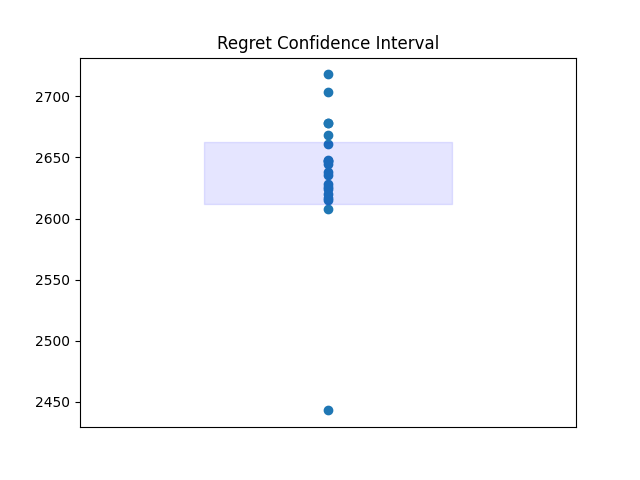
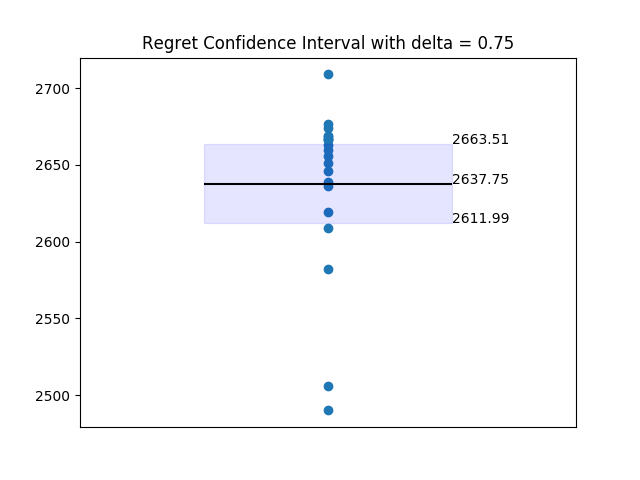
completed linreg bandit

diff --git a/q3-20.py b/q3-20.py
@@ -3,16 +3,15 @@ import pandas as pd
 from matplotlib import pyplot as plt
 
 from load_data import Load_Data
-from suplinrel import SupLinRel
-from utils import dose_to_category, mean_confidence_interval
+from linreg_bandit import LinReg_Bandit
+from utils import mean_confidence_interval
 
-delta = 0.75
+alpha = 1
 num_run = 20
 
 X, y = Load_Data().extract()
-y = dose_to_category(y)
+threshold = np.array([21, 49])
 
-K = 3
 reward = np.array([[0, -1, -1], \
                     [-1, 0, -1], \
                     [-1, -1, 0]])
@@ -22,11 +21,11 @@ accuracy_scores = np.zeros(num_run)
 
 for i in range(num_run):
     print("Processing Trial # %d out of %d." % (i+1, num_run))
-    SLR = SupLinRel(K, reward, delta=delta)
-    SLR.data_load(X, y)
-    SLR.run()
-    regrets[i] = SLR.total_regret()
-    accuracy_scores[i] = SLR.accuracy_score()
+    linreg = LinReg_Bandit(threshold, reward, alpha=alpha)
+    linreg.data_load(X, y)
+    linreg.run(initial_guess=35)
+    regrets[i] = linreg.total_regret()
+    accuracy_scores[i] = linreg.accuracy_score()
 
 regrets_mean, regrets_width = mean_confidence_interval(regrets)
 acc_mean, acc_width = mean_confidence_interval(accuracy_scores)
@@ -41,8 +40,8 @@ plt.text(0.1, regrets_mean, np.round(regrets_mean, 2))
 plt.text(0.1, regrets_mean+regrets_width, np.round(regrets_mean+regrets_width, 2))
 
 plt.tick_params(axis='x', which='both', bottom=False, top=False, labelbottom=False)
-plt.title("Regret Confidence Interval with delta = "+str(delta))
-plt.savefig("output/SupLinRel_Regret_confidence_interval")
+plt.title("Regret Confidence Interval with alpha = "+str(alpha))
+plt.savefig("output/linreg_Regret_confidence_interval")
 plt.clf()
 
 plt.scatter(np.zeros_like(accuracy_scores), accuracy_scores)
@@ -55,6 +54,6 @@ plt.text(0.1, acc_mean, np.round(acc_mean, 5))
 plt.text(0.1, acc_mean+acc_width,  np.round(acc_mean+acc_width, 5))
 
 plt.tick_params(axis='x', which='both', bottom=False, top=False, labelbottom=False)
-plt.title("Accuracy Confidence Interval with delta = "+str(delta))
-plt.savefig("output/SupLinRel_Accuracy_confidence_interval")
+plt.title("Accuracy Confidence Interval with alpha = "+str(alpha))
+plt.savefig("output/linreg_Accuracy_confidence_interval")
 plt.clf()

diff --git a/linreg_bandit.py b/linreg_bandit.py
@@ -1,0 +1,59 @@
+import numpy as np
+from sklearn.linear_model import Ridge
+from sklearn.preprocessing import StandardScaler
+import matplotlib.pyplot as plt
+
+from bandit import Bandit
+
+class LinReg_Bandit(Bandit):
+
+    def __init__(self, threshold, reward, alpha=1.0):
+
+        """
+        Requires: reward has shape (len(threshold)+1, len(threshold)+1)
+        """
+
+        self.alpha = alpha
+        self.r = reward
+        self.threshold = threshold
+        self.model_name = "LinReg"
+
+    def data_load(self, X, y, shuffle=True):
+
+        self.X = X.values
+        self.y = y.values
+
+        self.T = X.shape[0]
+        self.d = X.shape[1]
+
+        if shuffle:
+            indexes = np.random.permutation(self.T)
+            self.X = self.X[indexes, :]
+            self.y = self.y[indexes]
+
+        scaler = StandardScaler()
+        self.X = scaler.fit_transform(self.X)
+
+    def run(self, initial_guess=0):
+
+        self.accurate_so_far = np.zeros(self.T)
+        self.regret_history = np.zeros(self.T)
+
+        correct_labels = 0
+        regret = 0
+
+        for i in range(self.T):
+            if i < self.d:
+                y_pred = initial_guess
+            else:
+                model = Ridge(alpha=self.alpha)
+                model.fit(self.X[0:i, :], self.y[0:i])
+                y_pred = model.predict(self.X[i, :].reshape(1, -1))[0]
+                y_pred_choice = np.sum(y_pred >= self.threshold)
+                y_correct_choice = np.sum(self.y[i] >= self.threshold)
+
+                correct_labels += y_pred_choice == y_correct_choice
+                regret += np.max(self.r[y_correct_choice, :]) - self.r[y_correct_choice, y_pred_choice]
+
+                self.accurate_so_far[i] = correct_labels
+                self.regret_history[i] = regret

diff --git a/q3.py b/q3.py
@@ -1,0 +1,25 @@
+import numpy as np
+import pandas as pd
+
+from load_data import Load_Data
+from linreg_bandit import LinReg_Bandit
+
+alpha = 1.0
+
+X, y = Load_Data().extract()
+
+threshold = np.array([21, 49])
+
+reward = np.array([[0, -1, -1], \
+                    [-1, 0, -1], \
+                    [-1, -1, 0]])
+
+linreg = LinReg_Bandit(threshold, reward, alpha=alpha)
+linreg.data_load(X, y)
+linreg.run(initial_guess=35)
+
+print("The regret is %f." % linreg.total_regret())
+print("The accuracy score is %f." % (linreg.accuracy_score()))
+
+linreg.plot_hist()
+linreg.plot_recent_accuracy(N=500)

diff --git a/bandit.py b/bandit.py
@@ -3,6 +3,8 @@ import matplotlib.pyplot as plt
 
 class Bandit:
 
+    model_name = ""
+
     def data_load(self, X, y, shuffle=True):
         pass
 
@@ -26,7 +28,7 @@ class Bandit:
         plt.savefig("output/"+self.model_name+"_Accuracy_history")
         plt.clf()
 
-    def plot_recent_accuracy(self, N=1000):
+    def plot_recent_accuracy(self, N=500):
         recent_acc = np.zeros(self.T-N+1)
         recent_acc[0] = self.accurate_so_far[N-1]
         recent_acc[1:self.T-N+1] = self.accurate_so_far[N:self.T]-self.accurate_so_far[0:self.T-N]

diff --git a/utils.py b/utils.py
@@ -13,8 +13,8 @@ def dose_to_category(y):
     high_bound = 49
     y_cat = np.zeros((y.shape[0], 3))
     y_cat[:,0] = y < low_bound
-    y_cat[:,1] = np.logical_and(y >= low_bound, y <= high_bound)
-    y_cat[:,2] = y > high_bound
+    y_cat[:,1] = np.logical_and(y >= low_bound, y < high_bound)
+    y_cat[:,2] = y >= high_bound
     return np.argmax(y_cat, axis=1)
 
 def mean_confidence_interval(data, confidence=0.95):

diff --git a/q2.py b/q2.py
@@ -6,6 +6,8 @@ from suplinrel import SupLinRel
 
 from utils import dose_to_category
 
+delta = 0.75
+
 X, y = Load_Data().extract()
 y = dose_to_category(y)
 
@@ -14,7 +16,7 @@ reward = np.array([[0, -1, -1], \
                     [-1, 0, -1], \
                     [-1, -1, 0]])
 
-SLR = SupLinRel(K, reward, delta=0.5)
+SLR = SupLinRel(K, reward, delta=delta)
 SLR.data_load(X, y)
 SLR.run()
 

diff --git a/load_data.py b/load_data.py
@@ -1,6 +1,5 @@
 import pandas as pd
 
-
 class Load_Data:
 
     yname = 'Therapeutic Dose of Warfarin'
